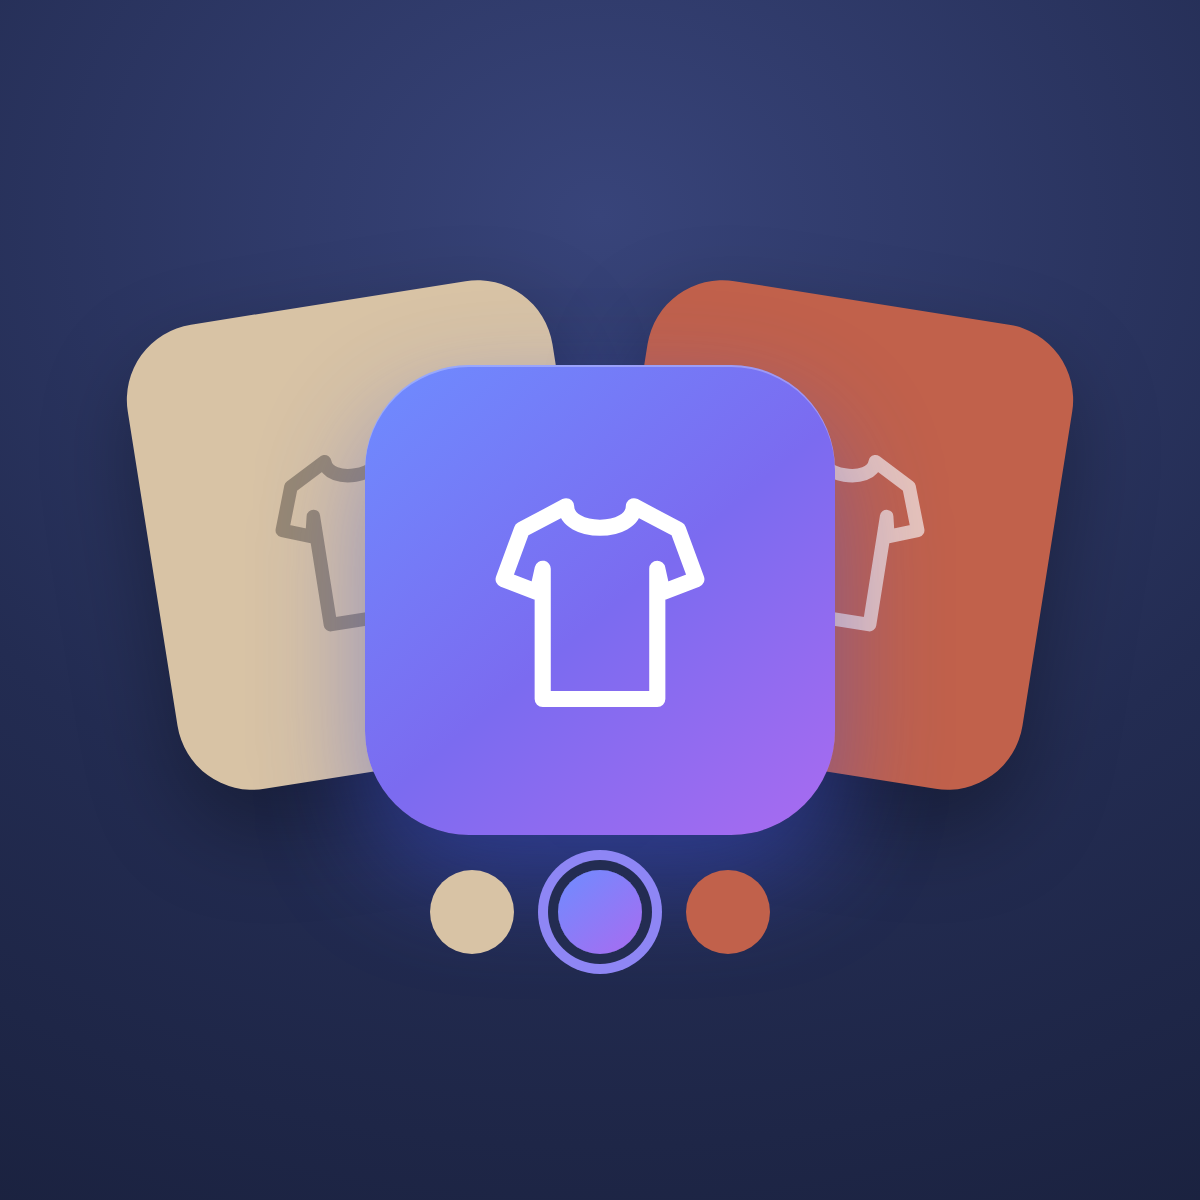
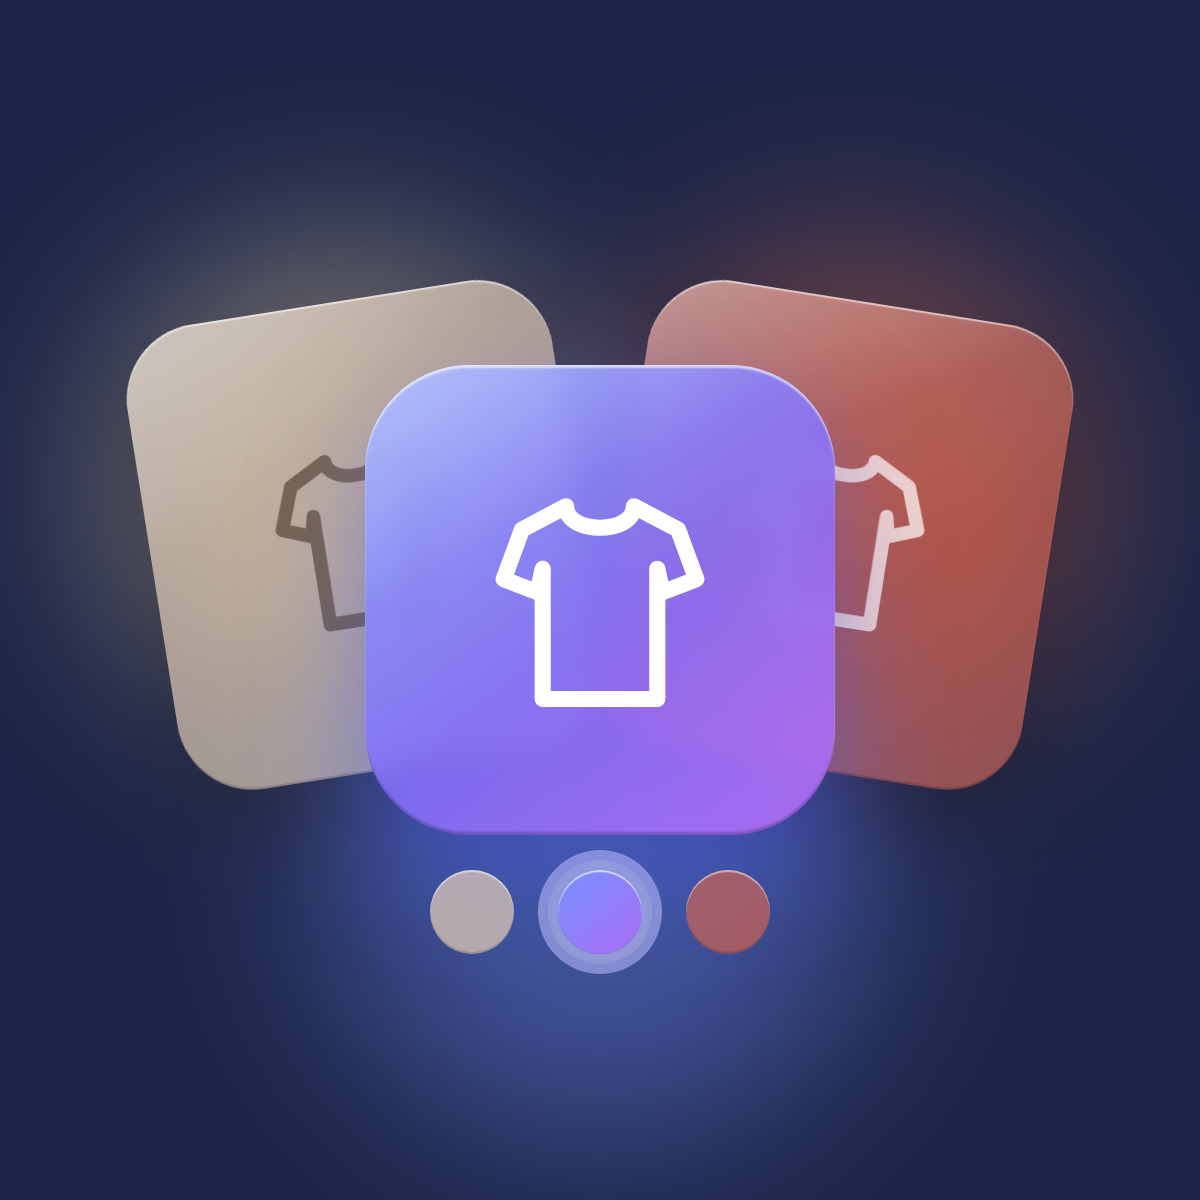
L'icône passe au verre liquide
Les fiches sœurs deviennent de vraies plaques translucides : flou
d'arrière-plan, saturation poussée, arête éclairée en haut et arête d'ombre
en bas, plus un reflet spéculaire en diagonale — c'est lui qui fait lire
« verre » plutôt que « calque translucide ».

Une plaque de verre ne se voit que par ce qu'elle DÉFORME. Le fond porte
donc des halos colorés, sans lesquels le flou n'aurait rien à travailler.
Premier essai : trop larges, ils baignaient toute l'image et grisaient le
beige. Resserrés derrière chaque fiche, le fond redevient un bleu nuit
franc et les coloris se distinguent.

Les trois luminosités se règlent d'un seul curseur : le verre étant
translucide, éclaircir le fond éclaircit aussi les fiches.

diff --git a/app-store/icone/icone.html b/app-store/icone/icone.html
@@ -1,55 +1,67 @@
 <!doctype html>
 <html><head><meta charset="utf-8"><style>
-/* Icône Variantsy, 1200 × 1200.
-   Reconstruite en HTML pour redevenir modifiable : la précédente vivait dans un
-   canvas de design qu'on ne pouvait plus reprendre.
-
-   Le grief à corriger : les variantes d'arrière-plan ne se voyaient pas, et le
-   fond était trop sombre. Elles deviennent donc de vraies FICHES COLORÉES —
-   beige et argile, les coloris de l'app — au lieu de fantômes gris. */
+/* Icône Variantsy, 1200 × 1200 — traitement « verre liquide ».
+   Une plaque de verre ne se voit que par ce qu'elle DÉFORME : le fond porte
+   donc des halos colorés, sans lesquels le flou d'arrière-plan n'aurait rien à
+   travailler et les fiches sœurs redeviendraient de simples aplats ternes. */
 * { margin:0; padding:0; box-sizing:border-box; }
-.icone {
-  position: relative;
-  width: 1200px; height: 1200px;
-  display: grid; place-items: center;
-  overflow: hidden;
-  font-family: system-ui, sans-serif;
-}
-.scene { position: relative; width: 900px; height: 900px; display:grid; place-items:center; }
+.icone { position:relative; width:1200px; height:1200px; display:grid; place-items:center; overflow:hidden; }
 
-/* Les deux fiches sœurs, DERRIÈRE. Inclinées et décalées, elles disent
-   « plusieurs coloris du même article ». */
+/* Halos : la matière que le verre va capter. */
+.halo { position:absolute; border-radius:50%; filter: blur(96px); }
+
+.scene { position:relative; width:900px; height:900px; display:grid; place-items:center; z-index:2; }
+
+/* --- Fiches sœurs : verre teinté ---------------------------------------- */
 .fiche {
-  position: absolute; top: 150px;
-  width: 430px; height: 470px;
-  border-radius: 76px;
-  display: grid; place-items: center;
-  box-shadow: 0 40px 90px rgba(0,0,0,.34);
+  position:absolute; top:150px; width:430px; height:470px;
+  border-radius:76px; display:grid; place-items:center;
+  backdrop-filter: blur(26px) saturate(180%);
+  -webkit-backdrop-filter: blur(26px) saturate(180%);
+  box-shadow:
+    inset 0 2px 1px rgba(255,255,255,.55),      /* arête éclairée, en haut */
+    inset 0 -2px 1px rgba(0,0,0,.18),           /* arête d'ombre, en bas */
+    0 40px 90px rgba(0,0,0,.30);
 }
-.fiche.g { left: 0;  transform: rotate(-9deg); }
-.fiche.d { right: 0; transform: rotate(9deg); }
+.fiche.g { left:0;  transform: rotate(-9deg); }
+.fiche.d { right:0; transform: rotate(9deg); }
 
-/* La fiche de tête : le coloris choisi. */
+/* Le reflet spéculaire : c'est lui qui fait lire « verre » plutôt que
+   « calque translucide ». */
+.fiche::after, .tete::after {
+  content:""; position:absolute; inset:0; border-radius:inherit; pointer-events:none;
+  background: linear-gradient(150deg, rgba(255,255,255,.42) 0%, rgba(255,255,255,.06) 34%, transparent 58%);
+}
+
+/* --- Fiche de tête : le coloris choisi ---------------------------------- */
 .tete {
-  position: relative; z-index: 3;
-  width: 470px; height: 470px;
-  border-radius: 104px;
-  display: grid; place-items: center;
-  background: linear-gradient(140deg, #6E8CFF 0%, #7B6BF0 52%, #A96BF0 100%);
-  box-shadow: 0 44px 110px rgba(60,80,220,.46), inset 0 2px 0 rgba(255,255,255,.28);
+  position:relative; z-index:3; width:470px; height:470px; border-radius:104px;
+  display:grid; place-items:center;
+  background: linear-gradient(140deg, rgba(120,150,255,.92) 0%, rgba(130,110,245,.92) 52%, rgba(180,110,245,.92) 100%);
+  backdrop-filter: blur(14px) saturate(150%);
+  -webkit-backdrop-filter: blur(14px) saturate(150%);
+  box-shadow:
+    inset 0 3px 2px rgba(255,255,255,.62),
+    inset 0 -3px 2px rgba(0,0,0,.20),
+    0 44px 110px rgba(70,90,230,.50);
 }
-svg { display:block; }
+svg { display:block; position:relative; z-index:2; }
 
-/* Le sélecteur, en bas : trois coloris, celui de la fiche entouré. */
-.rangee {
-  position: absolute; bottom: 96px; left: 0; right: 0;
-  display: flex; justify-content: center; align-items: center; gap: 44px;
-  z-index: 4;
+/* --- Le sélecteur ------------------------------------------------------- */
+.rangee { position:absolute; bottom:96px; left:0; right:0; display:flex;
+  justify-content:center; align-items:center; gap:44px; z-index:4; }
+.pastille {
+  width:84px; height:84px; border-radius:50%;
+  backdrop-filter: blur(18px) saturate(170%);
+  -webkit-backdrop-filter: blur(18px) saturate(170%);
+  box-shadow: inset 0 2px 1px rgba(255,255,255,.50), inset 0 -2px 1px rgba(0,0,0,.16);
 }
-.pastille { width: 84px; height: 84px; border-radius: 50%; }
 .pastille.on {
-  background: linear-gradient(140deg, #6E8CFF, #A96BF0);
-  box-shadow: 0 0 0 10px var(--fond-anneau), 0 0 0 20px #8E86F5;
+  background: linear-gradient(140deg, rgba(120,150,255,.95), rgba(180,110,245,.95));
+  box-shadow:
+    inset 0 2px 1px rgba(255,255,255,.70),
+    0 0 0 10px rgba(255,255,255,.10),
+    0 0 0 20px rgba(190,190,255,.55);
 }
 </style></head><body>
 <div class="icone" id="cible"></div>
@@ -61,28 +73,29 @@ const TEE = (couleur, taille) => `
         stroke="${couleur}" stroke-width="3.1" stroke-linejoin="round" fill="none"/>
 </svg>`;
 
-// Trois niveaux de luminosité de fond, du plus sombre au plus clair.
+// Trois luminosités de fond. Le verre restant translucide, un fond plus clair
+// éclaircit AUSSI les fiches sœurs : les deux se règlent d'un seul curseur.
 const VARIANTES = {
-  A: { fond: "radial-gradient(120% 100% at 50% 18%, #26305A 0%, #171E38 55%, #10152A 100%)",
-       beige: "#C9B48D", argile: "#B96A4E", opacite: .92, anneau: "#171E38" },
-  B: { fond: "radial-gradient(120% 100% at 50% 18%, #38447A 0%, #232C52 55%, #19203C 100%)",
-       beige: "#D8C3A5", argile: "#C1614B", opacite: 1, anneau: "#232C52" },
-  C: { fond: "radial-gradient(120% 100% at 50% 18%, #4C5A96 0%, #333E६E 55%, #262E55 100%)".replace("६","6"),
-       beige: "#E2D0B4", argile: "#CE7358", opacite: 1, anneau: "#333E6E" },
+  A: { fond:"#131A33", halo:.42, voile:.34 },
+  B: { fond:"#1C2547", halo:.50, voile:.40 },
+  C: { fond:"#2A3568", halo:.58, voile:.46 },
 };
-
 const v = VARIANTES[new URLSearchParams(location.search).get("v") || "B"];
-document.getElementById("cible").style.background = v.fond;
-document.getElementById("cible").style.setProperty("--fond-anneau", v.anneau);
-document.getElementById("cible").innerHTML = `
+
+const cible = document.getElementById("cible");
+cible.style.background = v.fond;
+cible.innerHTML = `
+  <span class="halo" style="width:470px;height:470px;left:110px;top:250px;background:#E4CFA9;opacity:${v.halo}"></span>
+  <span class="halo" style="width:470px;height:470px;right:110px;top:250px;background:#D46A4E;opacity:${v.halo}"></span>
+  <span class="halo" style="width:560px;height:560px;left:320px;bottom:60px;background:#6E8CFF;opacity:${v.halo * 0.9}"></span>
   <div class="scene">
-    <div class="fiche g" style="background:${v.beige};opacity:${v.opacite}">${TEE("rgba(0,0,0,.30)", 210)}</div>
-    <div class="fiche d" style="background:${v.argile};opacity:${v.opacite}">${TEE("rgba(255,255,255,.62)", 210)}</div>
+    <div class="fiche g" style="background:rgba(216,195,165,${v.voile + 0.30})">${TEE("rgba(60,40,20,.55)", 210)}</div>
+    <div class="fiche d" style="background:rgba(193,97,75,${v.voile + 0.30})">${TEE("rgba(255,240,235,.80)", 210)}</div>
     <div class="tete">${TEE("#FFFFFF", 250)}</div>
     <div class="rangee">
-      <span class="pastille" style="background:${v.beige}"></span>
+      <span class="pastille" style="background:rgba(216,195,165,.78)"></span>
       <span class="pastille on"></span>
-      <span class="pastille" style="background:${v.argile}"></span>
+      <span class="pastille" style="background:rgba(193,97,75,.78)"></span>
     </div>
   </div>`;
 </script></body></html>
